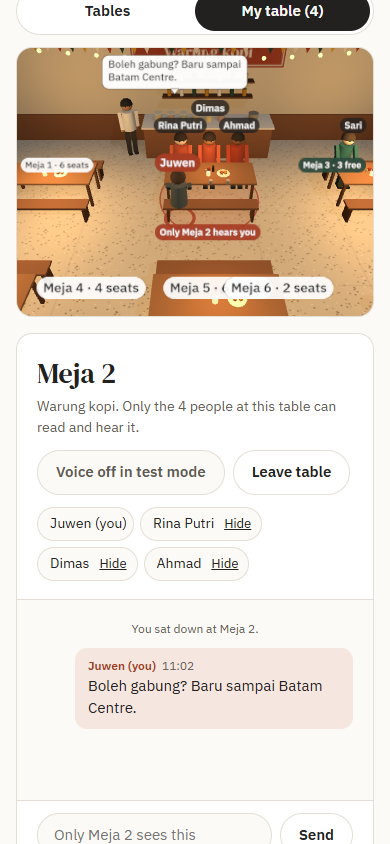
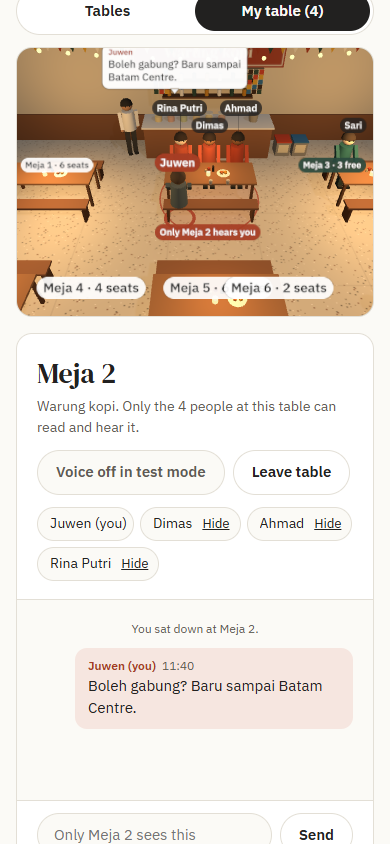
hone: speaker names on bubbles, label stems, table tags avoid each other, kerupuk tins and kopi sachets, cart snacks; sw v4

diff --git a/world.js b/world.js
@@ -243,7 +243,7 @@ function textSprite(text, { color = "#ffffff", background = "rgba(34,33,32,0.78)
   return sprite;
 }
 
-function bubbleSprite(text) {
+function bubbleSprite(text, name = "") {
   const words = String(text).split(/\s+/).filter(Boolean);
   const lines = [];
   let line = "";
@@ -266,10 +266,14 @@ function bubbleSprite(text) {
   const size = 34;
   const canvas = document.createElement("canvas");
   const context = canvas.getContext("2d");
+  const nameSize = 26;
+  const header = name ? nameSize + 10 : 0;
+  context.font = `700 ${nameSize}px ${FONT}`;
+  const nameWidth = name ? context.measureText(name).width : 0;
   context.font = `500 ${size}px ${FONT}`;
-  const textWidth = Math.max(...lines.map((l) => context.measureText(l).width), 40);
+  const textWidth = Math.max(...lines.map((l) => context.measureText(l).width), nameWidth, 40);
   const width = Math.ceil(textWidth) + 44;
-  const height = lines.length * (size + 8) + 30 + 18;
+  const height = lines.length * (size + 8) + 30 + 18 + header;
   canvas.width = width;
   canvas.height = height;
   context.font = `500 ${size}px ${FONT}`;
@@ -285,7 +289,12 @@ function bubbleSprite(text) {
   context.stroke();
   context.fillStyle = "#222120";
   context.textBaseline = "top";
-  lines.forEach((l, i) => context.fillText(l, 22, 16 + i * (size + 8)));
+  lines.forEach((l, i) => context.fillText(l, 22, 16 + header + i * (size + 8)));
+  if (name) {
+    context.font = `700 ${nameSize}px ${FONT}`;
+    context.fillStyle = "#a63d24";
+    context.fillText(name, 22, 16);
+  }
   const texture = new THREE.CanvasTexture(canvas);
   texture.colorSpace = THREE.SRGBColorSpace;
   const sprite = new THREE.Sprite(new THREE.SpriteMaterial({ map: texture, depthWrite: false, depthTest: false, transparent: true }));
@@ -601,6 +610,16 @@ function buildPlace(plan, venue) {
         group.add(cyl(0.07, 0.07, 0.16, ["#d9a62e", "#a63d24", "#6f7f34"][i % 3], -0.8 + i * 0.32, 1.31, cz - 0.1, 10));
       }
       group.add(cyl(0.12, 0.1, 0.22, "#c9c4ba", 0.8, 1.34, cz, 14, { metalness: 0.5, roughness: 0.35 }));
+      // nasi kucing packets wrapped in paper and banana leaf, and a kettle kept warm on the side
+      for (let i = 0; i < 6; i++) {
+        const packet = box(0.13, 0.05, 0.1, i % 2 ? "#4f6b2a" : "#b08a5a", -0.95 + i * 0.17, 1.25, cz + 0.3);
+        packet.rotation.y = (i % 3) * 0.2 - 0.2;
+        group.add(packet);
+      }
+      group.add(cyl(0.1, 0.13, 0.17, "#3b3a38", -0.95, 1.31, cz - 0.15, 14, { metalness: 0.4, roughness: 0.5 }));
+      const spout = cyl(0.018, 0.025, 0.16, "#3b3a38", -0.82, 1.36, cz - 0.15, 8);
+      spout.rotation.z = -0.9;
+      group.add(spout);
     } else if (layout === "garden") {
       group.add(box(3.4, 1.05, 0.8, "#6b4428", 0, 0.52, cz));
       group.add(box(3.5, 0.06, 0.9, "#9a6b45", 0, 1.08, cz));
@@ -628,6 +647,20 @@ function buildPlace(plan, venue) {
           group.add(cyl(0.1, 0.1, 0.14, ["#d9a62e", "#a63d24", "#6f7f34", "#c58b2a"][i % 4], -1.4 + i * 0.36, 1.12, cz, 12));
         }
         group.add(cyl(0.14, 0.12, 0.24, "#c9c4ba", 1.3, 1.17, cz, 14, { metalness: 0.5, roughness: 0.35 }));
+        // kerupuk tins beside the counter
+        for (const [i, x] of [2.25, 2.75].entries()) {
+          group.add(box(0.42, 0.46, 0.42, "#c9c4ba", x, 0.23, cz + 0.05, { metalness: 0.45, roughness: 0.4 }));
+          group.add(box(0.3, 0.26, 0.01, "#efe2c0", x, 0.26, cz + 0.265));
+          group.add(box(0.44, 0.04, 0.44, i ? "#2f6fa3" : "#c8432b", x, 0.48, cz + 0.05));
+        }
+        // strips of kopi sachets hanging from a rail above the shelves
+        group.add(cyl(0.012, 0.012, 3.0, "#3b3a38", 0, 2.42, backZ + 0.32, 6).rotateZ(Math.PI / 2));
+        const sachetColors = ["#c8432b", "#d9a62e", "#2f6fa3", "#3b2416", "#2d4a3e"];
+        for (const [s, x] of [-1.45, -1.3, -1.15, 1.15, 1.3, 1.45].entries()) {
+          for (let k = 0; k < 5; k++) {
+            group.add(box(0.12, 0.13, 0.008, sachetColors[(s + k) % sachetColors.length], x, 2.32 - k * 0.14, backZ + 0.33));
+          }
+        }
       }
       // shelves on the wall behind
       for (const y of [1.55, 2.0]) {
@@ -748,8 +781,13 @@ function makeAvatar(looks, name, isMe) {
   const label = textSprite(name, isMe ? { background: "rgba(166,61,36,0.95)" } : {});
   label.position.y = 1.95;
   root.add(label);
+  const stem = new THREE.Sprite(new THREE.SpriteMaterial({ color: "#222120", transparent: true, opacity: 0.55, depthTest: false, depthWrite: false }));
+  stem.center.set(0.5, 0);
+  stem.renderOrder = 9;
+  stem.visible = false;
+  root.add(stem);
 
-  return { root, hips, legs, arms, head, ring, label, labelText: name, bubble: null, bubbleUntil: 0 };
+  return { root, hips, legs, arms, head, ring, label, stem, labelText: name, bubble: null, bubbleUntil: 0 };
 }
 
 function poseStanding(a, t, moving) {
@@ -1078,17 +1116,17 @@ export function createWorld(container, handlers = {}) {
       a.bubble.material.map.dispose();
       a.bubble.material.dispose();
     }
-    a.bubble = bubbleSprite(text);
+    a.bubble = bubbleSprite(text, a.labelText);
     a.bubble.position.y = 2.12;
     a.bubble.userData.lift = 0;
     a.root.add(a.bubble);
     a.bubbleUntil = performance.now() + 4000 + Math.min(6000, text.length * 80);
-    // Stack older bubbles above the new one so a lively table stays readable; keep the 3 newest.
+    // Keep the two newest bubbles; the full conversation stays in the side panel.
     const others = [...avatars.values()]
       .filter((other) => other !== a && other.bubble)
       .sort((x, y) => y.bubbleUntil - x.bubbleUntil);
     others.forEach((other, index) => {
-      if (index >= 2) {
+      if (index >= 1) {
         other.bubbleUntil = 0;
       } else {
         other.bubble.userData.lift += a.bubble.scale.y + 0.05;
@@ -1430,7 +1468,8 @@ export function createWorld(container, handlers = {}) {
       return world;
     }
 
-    for (const [tableNo, entry] of tableLabels) {
+    const tableOrder = [...tableLabels].sort((p, q) => Number(q[1].mine) - Number(p[1].mine));
+    for (const [tableNo, entry] of tableOrder) {
       const base = entry.base;
       if (entry.mine && zone.visible) {
         const dx = camera.position.x - zone.position.x;
@@ -1443,7 +1482,7 @@ export function createWorld(container, handlers = {}) {
       } else {
         anchorWorld.copy(base);
       }
-      entry.sprite.position.copy(place(entry.sprite, anchorWorld, false));
+      entry.sprite.position.copy(place(entry.sprite, anchorWorld, !entry.mine));
       entry.sprite.userData.table = tableNo;
     }
 
@@ -1454,6 +1493,14 @@ export function createWorld(container, handlers = {}) {
       const world = place(a.label, anchorWorld, true);
       a.label.position.copy(a.root.worldToLocal(world.clone()));
       a.labelWorld = world;
+      const headTop = a.sitH != null ? a.sitH + 1.0 : 1.76;
+      const stemLength = world.y - a.label.scale.y / 2 - headTop - 0.03;
+      a.stem.visible = stemLength > 0.12;
+      if (a.stem.visible) {
+        anchorWorld.set(world.x, headTop + 0.03, world.z);
+        a.stem.position.copy(a.root.worldToLocal(anchorWorld.clone()));
+        a.stem.scale.set(0.012 * factor, stemLength, 1);
+      }
     }
     const talkers = people.filter((a) => a.bubble).sort((p, q) => q.bubbleUntil - p.bubbleUntil);
     for (const a of talkers) {

diff --git a/sw.js b/sw.js
@@ -1,5 +1,5 @@
 // Keeps the app shell available offline. People and messages are never cached.
-const CACHE = "nongkrong-v3";
+const CACHE = "nongkrong-v4";
 const SHELL = ["./", "index.html", "app.css", "app.js", "data.js", "net.js", "world.js", "vendor/trystero-nostr.mjs", "vendor/three.module.min.js",
   "icon.svg", "icon-192.png", "icon-512.png", "manifest.webmanifest"];
 

diff --git a/tests/diag_fps.py b/tests/diag_fps.py
@@ -1,0 +1,42 @@
+"""Diagnostic: load one page, report JS errors and frames rendered in 3 seconds."""
+import json
+import sys
+import time
+
+sys.path.insert(0, __file__.rsplit("\\", 1)[0])
+from probe_3d import GPU_ARGS, seed, serve  # noqa: E402
+
+from playwright.sync_api import sync_playwright
+
+
+def main():
+    port = serve()
+    report = {"errors": [], "console": []}
+    with sync_playwright() as p:
+        browser = p.chromium.launch(channel="chrome", args=GPU_ARGS)
+        context = browser.new_context(viewport={"width": 1440, "height": 900})
+        context.route("**/fonts.g*/**", lambda route: route.abort())
+        page = context.new_page()
+        page.add_init_script(seed("Rina"))
+        page.on("pageerror", lambda exc: report["errors"].append(str(exc)))
+        page.on("console", lambda msg: report["console"].append(f"{msg.type}: {msg.text}"[:300]))
+        start = time.time()
+        page.goto(f"http://127.0.0.1:{port}/index.html?local=1&hour=12", wait_until="domcontentloaded", timeout=60000)
+        report["goto_s"] = round(time.time() - start, 1)
+        page.wait_for_timeout(6000)
+        start = time.time()
+        report["frames_3s"] = page.evaluate(
+            """() => new Promise((done) => {
+                let n = 0;
+                const end = performance.now() + 3000;
+                const tick = () => { n++; if (performance.now() < end) requestAnimationFrame(tick); else done(n); };
+                requestAnimationFrame(tick);
+            })"""
+        )
+        report["eval_s"] = round(time.time() - start, 1)
+        report["ready"] = page.evaluate("() => document.querySelector('[data-ready]') ? 1 : 0")
+        browser.close()
+    print(json.dumps(report, indent=1))
+
+
+main()

diff --git a/tests/e2e_local.py b/tests/e2e_local.py
@@ -109,7 +109,11 @@ def main():
         rina.wait_for_timeout(800)
         results["bubble_shown_to_tablemate"] = dimas.evaluate("window.nongkrong.state.world.info().bubbles") >= 1
         results["no_bubble_for_other_table"] = sari.evaluate("window.nongkrong.state.world.info().bubbles") == 0
-        dimas.wait_for_timeout(2500)
+        sitting_check = "(() => { const p = window.nongkrong.state.world.info().positions; return !!(p['Rina'] && p['Dimas'] && p['Rina'].sitting && p['Dimas'].sitting); })()"
+        try:
+            dimas.wait_for_function(sitting_check, timeout=10000)
+        except Exception:
+            pass
         results["tablemates_sitting_in_3d"] = dimas.evaluate(
             "(() => { const p = window.nongkrong.state.world.info().positions; return p['Rina'].sitting && p['Dimas'].sitting; })()")
         results["dimas_got_message"] = dimas.locator(".msg p", has_text="Hujan di Nagoya").count() == 1
